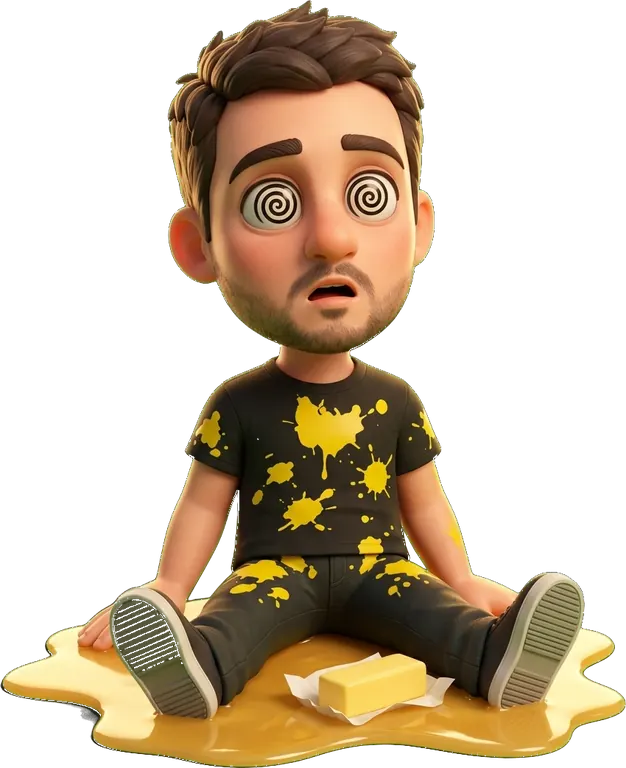
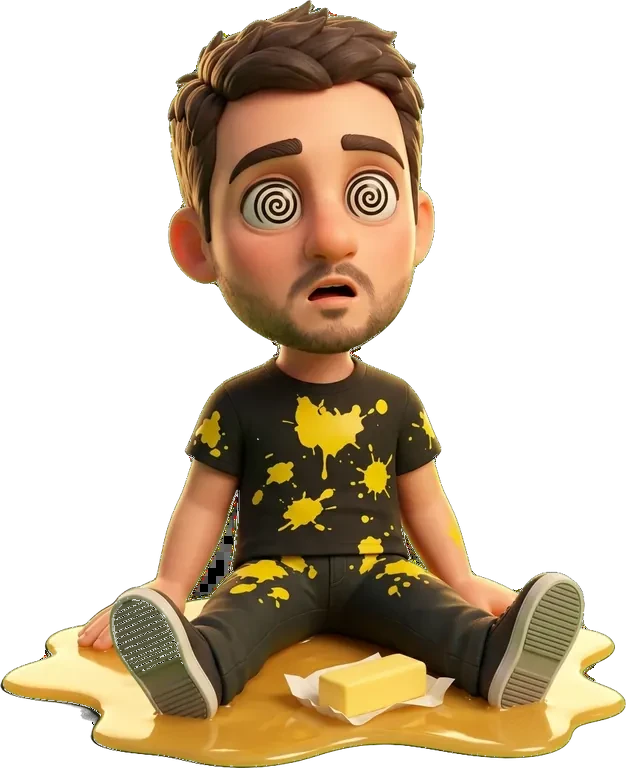
[A-7] reparar agujeros de recorte en poses de Cepi, Lale y Pinky
Claude-Session: https://claude.ai/code/session_015n5Lze7L5zpdwQeAECkVDE

diff --git a/tools/fix_alpha_holes.py b/tools/fix_alpha_holes.py
@@ -1,0 +1,39 @@
+# Repara agujeros que dejó el recorte de fondo verde en poses de arena (ropa oscura quedaba transparente).
+# Uso: python3 -I tools/fix_alpha_holes.py 3d/assets/arena_x_pose.webp  (sobrescribe; probar con copia)
+import sys
+import numpy as np
+from PIL import Image
+from scipy import ndimage as ndi
+def disk(r):
+    y, x = np.ogrid[-r:r+1, -r:r+1]; return x*x + y*y <= r*r
+def fix(path, out=None, dry=False):
+    im = Image.open(path).convert('RGBA'); a = np.array(im).astype(int)
+    alpha = a[..., 3]; rgb = a[..., :3]
+    opaque = alpha > 128
+    trans = alpha < 40
+    nz = rgb.max(2) >= 14
+    brightgreen = (rgb[..., 1] > 150) & (rgb[..., 1] > rgb[..., 0] + 60)
+    lab, n = ndi.label(trans)
+    border = set(np.unique(np.concatenate([lab[0], lab[-1], lab[:, 0], lab[:, -1]]))) - {0}
+    fill = np.zeros_like(trans)
+    for i in range(1, n + 1):
+        if i in border: continue
+        m = lab == i
+        if m.sum() < 2: fill |= m; continue
+        if m.sum() <= 2500 and (nz & m).sum() / m.sum() > 0.25 and not (brightgreen & m).mean() > 0.3: fill |= m
+    closed = ndi.binary_closing(np.pad(opaque, 16), structure=disk(11))[16:-16, 16:-16]
+    fill |= trans & closed & ~brightgreen & (nz | ndi.binary_closing(np.pad(opaque,16),structure=disk(11))[16:-16,16:-16])
+    # evitar rellenar fleco exterior: exigir vecindad opaca
+    near = ndi.binary_dilation(opaque, structure=disk(3))
+    fill &= near | (~np.isin(lab, list(border)))
+    cnt = int(fill.sum())
+    if cnt and not dry:
+        r, g, b = rgb[..., 0], rgb[..., 1], rgb[..., 2]
+        g2 = np.minimum(g, np.maximum(r, b) + 4)
+        a[..., 1] = np.where(fill, g2, g)
+        a[..., 3] = np.where(fill, 255, alpha)
+        # alpha parcial de borde queda igual
+        Image.fromarray(a.astype('uint8'), 'RGBA').save(out or path, 'WEBP', quality=90, alpha_quality=100, method=6)
+    return cnt
+if __name__ == '__main__':
+    for p in sys.argv[1:]: print(p.split('/')[-1], fix(p, dry=True))

diff --git a/PROJECT_STATUS.md b/PROJECT_STATUS.md
@@ -899,3 +899,10 @@ Candidata de Sites en /auditoria/. Rollback del sitio: versión 4, commit 944a6b
 - `game.css`: en vertical el intro de Cepi, Lale y Pinky baja por debajo del HUD y de la barra del jefe (antes el nombre pisaba «¡PODER LISTO!»), y «Tocá para empezar» sube por encima de los botones táctiles y se lee más (blanco con sombra).
 - Verificación: npm test 122/122; capturas Chromium 430×932 de `?probar=cepi` antes/después. No se probó en Safari físico ni en horizontal (no se tocó).
 - Rollback: `git revert <hash de este commit>` en feat-3d y push.
+
+## 2026-11-28 · Arte: reparación de agujeros en poses de Cepi, Lale y Pinky (hecho por Claude)
+- Defecto: el recorte del fondo verde dejó transparente parte de la ropa oscura (camisa/pantalón negros), y se veía el fondo a través de las piernas y el torso, sobre todo en Cepi golpeado/aturdido, Lale (tiro, golpeado, patín, KO) y Pinky (saludo, KO).
+- Arreglo: nuevo `tools/fix_alpha_holes.py` rellena los huecos interiores y los píxeles oscuros mal borrados; se aplicó a todas las `arena_cepi_*`, `arena_lale_*` (salvo `floured` y `fondo`) y `arena_pinky_*`. Mismas dimensiones, `manifest.json` sin cambios; `3d/assets` pasa de 9,15 a 9,30 MB (tope 10 MB).
+- Límite: en `arena_lale_throw` queda un hueco grande en la pierna derecha (el recorte original borró casi toda esa pierna); conviene regenerar esa pose en Gemini. No se tocaron los héroes ni Facu.
+- Verificación: npm test 122/122; capturas Chromium 430×932 de `?probar=lale`, `cepi`, `pinky`. No se probó en Safari físico.
+- Rollback: `git revert <hash de este commit>` en feat-3d y push.
